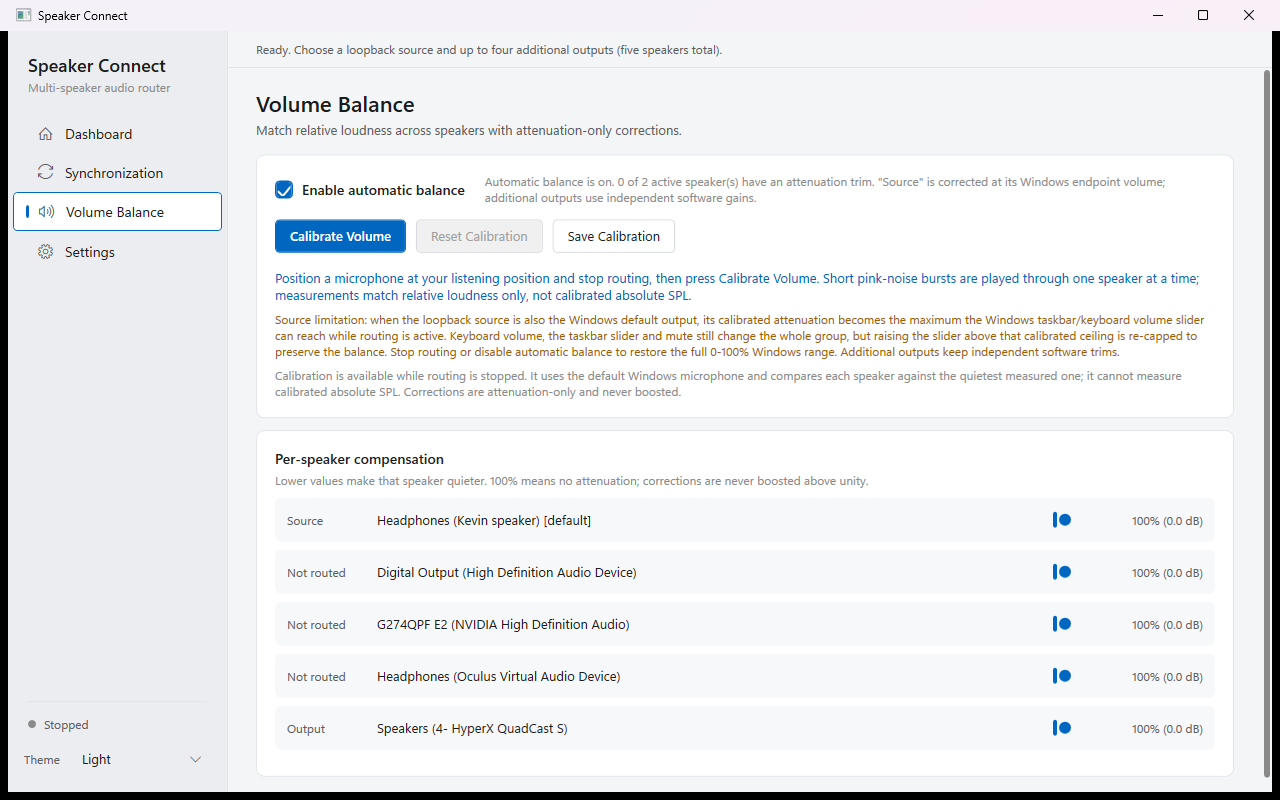
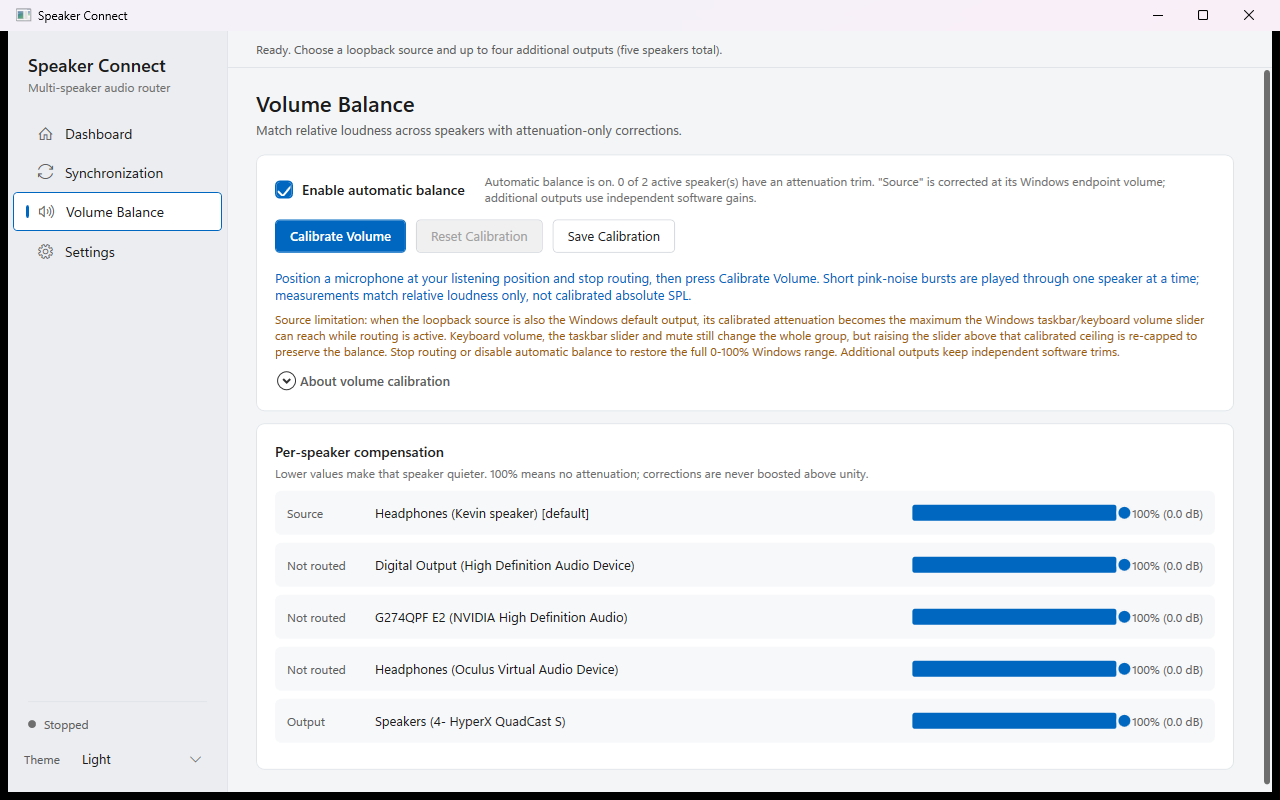
Address PR review: balance slider width, responsive cards, contrast, LICENSE
- BalanceView: slider column was 20px wide (tiny knobs); now a real 220px
  column (MinWidth 140) with auto-sized percentage labels
- Dashboard: speaker cards now size responsively to the viewport (1-4
  columns, 430-680px) instead of fixed 520px leaving dead space; Ref button
  top-aligned so it isn't a tall stretched rectangle
- EndpointSummary distinguishes 'selected' (stopped) from 'playing' (running)
- Raised TextTertiaryBrush contrast in both themes for readability
- Moved verbose Auto Sync / calibration explanations into collapsible
  Expander sections; conditional warnings stay visible
- Restored MIT LICENSE deleted earlier
- Refreshed all README/PR screenshots from the fixed build

diff --git a/SpeakerConnect/Views/BalanceView.xaml b/SpeakerConnect/Views/BalanceView.xaml
@@ -63,9 +63,18 @@
                                Style="{StaticResource CaptionText}"
                                Foreground="{DynamicResource WarningBrush}"
                                Margin="0,8,0,0" />
-                    <TextBlock Text="Calibration is available while routing is stopped. It uses the default Windows microphone and compares each speaker against the quietest measured one; it cannot measure calibrated absolute SPL. Corrections are attenuation-only and never boosted."
-                               Style="{StaticResource CaptionText}"
-                               Margin="0,8,0,0" />
+
+                    <Expander Margin="0,10,0,0">
+                        <Expander.Header>
+                            <TextBlock Text="About volume calibration"
+                                       FontSize="13"
+                                       FontWeight="SemiBold"
+                                       Foreground="{DynamicResource TextSecondaryBrush}" />
+                        </Expander.Header>
+                        <TextBlock Text="Calibration is available while routing is stopped. It uses the default Windows microphone and compares each speaker against the quietest measured one; it cannot measure calibrated absolute SPL. Corrections are attenuation-only and never boosted. Re-run calibration after moving a speaker or changing its Windows endpoint volume."
+                                   Style="{StaticResource CaptionText}"
+                                   Margin="0,8,0,0" />
+                    </Expander>
                 </StackPanel>
             </Border>
 
@@ -83,10 +92,10 @@
                                 <Border Style="{StaticResource SubtleBorder}" Margin="0,0,0,8">
                                     <Grid>
                                         <Grid.ColumnDefinitions>
-                                            <ColumnDefinition Width="90" />
-                                            <ColumnDefinition Width="*" MinWidth="140" />
-                                            <ColumnDefinition Width="20" />
-                                            <ColumnDefinition Width="130" />
+                                            <ColumnDefinition Width="88" />
+                                            <ColumnDefinition Width="*" MinWidth="120" />
+                                            <ColumnDefinition Width="220" MinWidth="140" />
+                                            <ColumnDefinition Width="Auto" MinWidth="52" />
                                         </Grid.ColumnDefinitions>
 
                                         <TextBlock Text="{Binding BalanceRoleLabel}"

diff --git a/SpeakerConnect/Views/SyncView.xaml b/SpeakerConnect/Views/SyncView.xaml
@@ -137,9 +137,17 @@
                                Foreground="{DynamicResource WarningBrush}"
                                Margin="0,8,0,0" />
 
-                    <TextBlock Text="Auto Sync uses a linear chirp and normalized cross-correlation on the live routing path. If any routed destination cannot be measured reliably, the whole plan is rejected and no delays change; the manual test remains available. Bluetooth codec latency and clock drift are real physical effects and are not guaranteed to stay constant."
-                               Style="{StaticResource CaptionText}"
-                               Margin="0,8,0,0" />
+                    <Expander Margin="0,10,0,0">
+                        <Expander.Header>
+                            <TextBlock Text="How synchronization works"
+                                       FontSize="13"
+                                       FontWeight="SemiBold"
+                                       Foreground="{DynamicResource TextSecondaryBrush}" />
+                        </Expander.Header>
+                        <TextBlock Text="Auto Sync uses a linear chirp and normalized cross-correlation on the live routing path. If any routed destination cannot be measured reliably, the whole plan is rejected and no delays change; the manual test remains available. Bluetooth codec latency and clock drift are real physical effects and are not guaranteed to stay constant."
+                                   Style="{StaticResource CaptionText}"
+                                   Margin="0,8,0,0" />
+                    </Expander>
                 </StackPanel>
             </Border>
         </StackPanel>

diff --git a/SpeakerConnect/Views/DashboardView.xaml b/SpeakerConnect/Views/DashboardView.xaml
@@ -96,6 +96,8 @@
                                 MinWidth="44"
                                 Padding="10,5"
                                 FontSize="12"
+                                VerticalAlignment="Top"
+                                Margin="0,2,0,0"
                                 Command="{Binding DataContext.SetReferenceCommand, RelativeSource={RelativeSource AncestorType=ItemsControl}}"
                                 CommandParameter="{Binding}"
                                 IsEnabled="{Binding IsControlEnabled}"
@@ -140,7 +142,8 @@
         </DataTemplate>
     </UserControl.Resources>
 
-    <ScrollViewer VerticalScrollBarVisibility="Auto"
+    <ScrollViewer x:Name="CardsScroll"
+                  VerticalScrollBarVisibility="Auto"
                   HorizontalScrollBarVisibility="Disabled">
         <StackPanel Margin="28,20,28,28">
 
@@ -295,7 +298,8 @@
                 </ItemsControl.ItemsPanel>
                 <ItemsControl.ItemContainerStyle>
                     <Style TargetType="ContentPresenter">
-                        <Setter Property="Width" Value="520" />
+                        <Setter Property="Width"
+                                Value="{Binding CardWidth, RelativeSource={RelativeSource AncestorType=UserControl}}" />
                         <Setter Property="Margin" Value="0,0,16,0" />
                     </Style>
                 </ItemsControl.ItemContainerStyle>

diff --git a/SpeakerConnect/Themes/Dark.xaml b/SpeakerConnect/Themes/Dark.xaml
@@ -18,7 +18,7 @@
     <!-- Text -->
     <SolidColorBrush x:Key="TextPrimaryBrush" Color="#FFFFFF" />
     <SolidColorBrush x:Key="TextSecondaryBrush" Color="#9D9D9D" />
-    <SolidColorBrush x:Key="TextTertiaryBrush" Color="#6E6E6E" />
+    <SolidColorBrush x:Key="TextTertiaryBrush" Color="#949494" />
     <SolidColorBrush x:Key="TextOnAccentBrush" Color="#FFFFFF" />
 
     <!-- Accent and interaction -->

diff --git a/SpeakerConnect/Themes/Light.xaml b/SpeakerConnect/Themes/Light.xaml
@@ -17,7 +17,7 @@
     <!-- Text -->
     <SolidColorBrush x:Key="TextPrimaryBrush" Color="#1B1B1B" />
     <SolidColorBrush x:Key="TextSecondaryBrush" Color="#5D5D5D" />
-    <SolidColorBrush x:Key="TextTertiaryBrush" Color="#8A8A8A" />
+    <SolidColorBrush x:Key="TextTertiaryBrush" Color="#6E6E6E" />
     <SolidColorBrush x:Key="TextOnAccentBrush" Color="#FFFFFF" />
 
     <!-- Accent and interaction -->

diff --git a/SpeakerConnect/Views/DashboardView.xaml.cs b/SpeakerConnect/Views/DashboardView.xaml.cs
@@ -1,11 +1,51 @@
+using System.Windows;
 using System.Windows.Controls;
+using System.Windows.Controls.Primitives;
 
 namespace SpeakerConnect.Views;
 
 public partial class DashboardView : UserControl
 {
+    /// <summary>
+    /// Width applied to each speaker card. Computed from the available viewport so
+    /// cards fill the row (1–4 columns) instead of leaving dead space.
+    /// </summary>
+    public static readonly DependencyProperty CardWidthProperty =
+        DependencyProperty.Register(
+            nameof(CardWidth),
+            typeof(double),
+            typeof(DashboardView),
+            new PropertyMetadata(520.0));
+
+    public double CardWidth
+    {
+        get => (double)GetValue(CardWidthProperty);
+        private set => SetValue(CardWidthProperty, value);
+    }
+
     public DashboardView()
     {
         InitializeComponent();
+        CardsScroll.SizeChanged += (_, _) => UpdateCardWidth();
+        CardsScroll.ScrollChanged += OnScrollChanged;
+        SizeChanged += (_, _) => UpdateCardWidth();
+    }
+
+    private void OnScrollChanged(object sender, ScrollChangedEventArgs e) =>
+        UpdateCardWidth();
+
+    private void UpdateCardWidth()
+    {
+        var available = CardsScroll.ViewportWidth;
+        if (double.IsNaN(available) || available < 200)
+        {
+            return;
+        }
+
+        // Each card keeps a 16px right margin; aim for ~516px cards so the column
+        // count adapts: 1 col under ~700px, 2 under ~1230px, 3 under ~1750px, else 4.
+        var columns = Math.Clamp((int)Math.Floor((available + 16) / 516.0), 1, 4);
+        var width = available / columns - 16.0;
+        CardWidth = Math.Clamp(width, 430.0, 680.0);
     }
 }

diff --git a/SpeakerConnect/ViewModels/MainViewModel.cs b/SpeakerConnect/ViewModels/MainViewModel.cs
@@ -188,13 +188,17 @@ public sealed class MainViewModel : ObservableObject, IDisposable
         set => SetProperty(ref _currentPage, value);
     }
 
-    /// <summary>Compact endpoint usage readout for the dashboard header.</summary>
+    /// <summary>
+    /// Compact endpoint usage readout for the dashboard header. Distinguishes
+    /// configured (selected) endpoints from endpoints actually rendering audio.
+    /// </summary>
     public string EndpointSummary
     {
         get
         {
-            var active = (SourceDevice is null ? 0 : 1) + SelectedOutputCount;
-            return $"{active} of {MaxTotalAudibleDevices} endpoints active";
+            var count = (SourceDevice is null ? 0 : 1) + SelectedOutputCount;
+            var state = IsRunning ? "playing" : "selected";
+            return $"{count} of {MaxTotalAudibleDevices} endpoints {state}";
         }
     }
 
@@ -552,6 +556,7 @@ public sealed class MainViewModel : ObservableObject, IDisposable
             if (SetProperty(ref _isRunning, value))
             {
                 OnPropertyChanged(nameof(IsConfigurationEnabled));
+                OnPropertyChanged(nameof(EndpointSummary));
                 UpdateRowAvailability();
                 NotifyCommands();
             }
